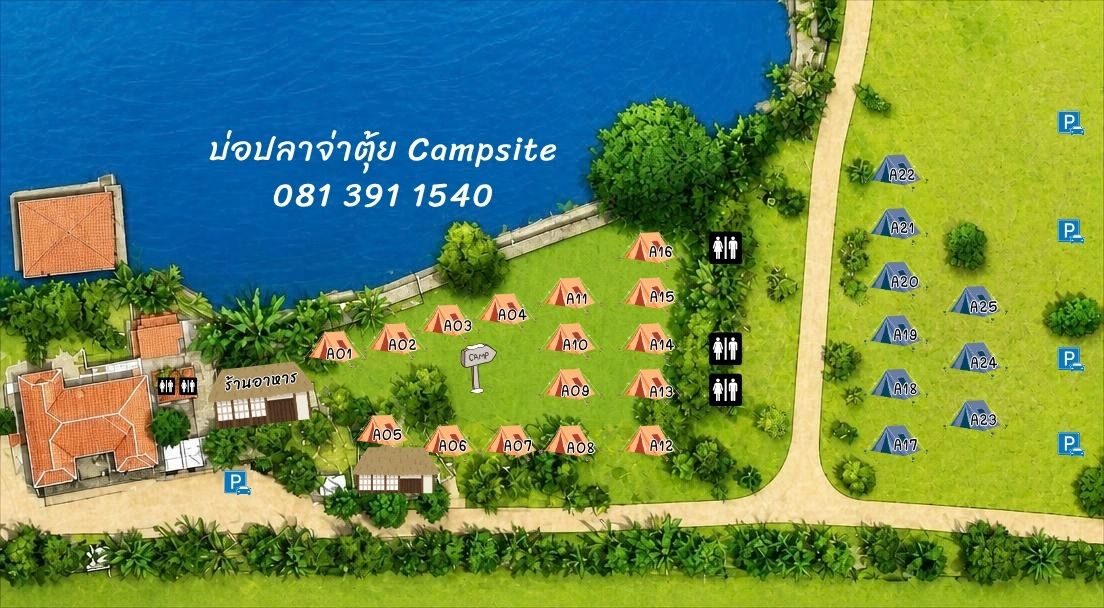
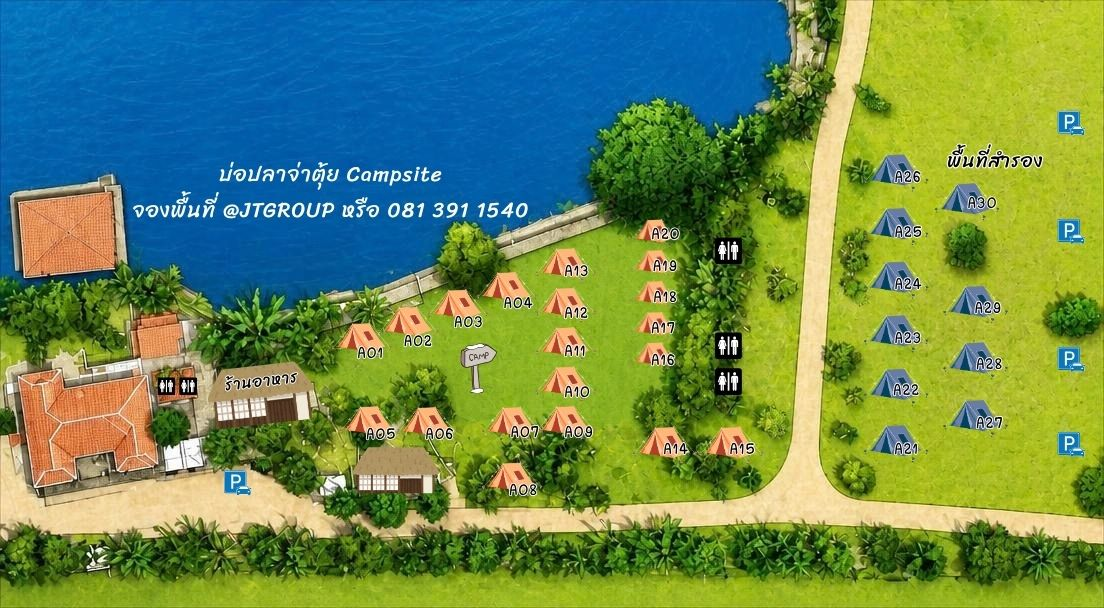
Add files via upload

diff --git a/public/liff.html b/public/liff.html
@@ -3,7 +3,7 @@
 <head>
 <meta charset="utf-8">
 <meta name="viewport" content="width=device-width, initial-scale=1">
-<title>จองพื้นที่กางเต็นท์</title>
+<title>จองที่กางเต็นท์</title>
 <script src="https://static.line-scdn.net/liff/edge/2/sdk.js"></script>
 <style>
   * { box-sizing: border-box; }
@@ -27,9 +27,12 @@
   button.go:disabled { background: #b8c4bc; }
   .mapscroll { overflow: auto; border-radius: 10px; -webkit-overflow-scrolling: touch; }
   .mapbox { position: relative; width: 100%; }
-  .mapbox.zoom { width: 230%; }
+  .mapbox.zoom { width: 330%; }
+  .mapscroll.zoomed { max-height: 70vh; }
+  .mapbox:not(.zoom) .pin { pointer-events: none; }
+  .mapbox:not(.zoom) { cursor: zoom-in; }
   .mapbox img { width: 100%; display: block; }
-  .pin { position: absolute; width: 7%; aspect-ratio: 1; transform: translate(-50%, -50%); border-radius: 50%; border: 0; padding: 0; background: transparent; display: none; }
+  .pin { position: absolute; width: 2.6%; aspect-ratio: 1; transform: translate(-50%, -50%); border-radius: 50%; border: 0; padding: 0; background: transparent; display: none; }
   .pin.free { display: block; background: rgba(6,199,85,.30); border: 2px solid #06c755; }
   .pin.off { display: block; background: rgba(80,80,80,.62); border: 2px solid #aaa; pointer-events: none; }
   .pin.sel { background: rgba(6,199,85,.85); border: 3px solid #fff; box-shadow: 0 0 0 2px #06c755; }
@@ -47,13 +50,13 @@
 </head>
 <body>
 <div class="wrap">
-  <h1>⛺ จองพื้นที่กางเต็นท์</h1>
+  <h1>⛺ จองที่กางเต็นท์</h1>
 
   <div id="form">
     <div class="card">
       <div class="row">
-        <div><label>วันเข้าพัก(เฉพาะงานแฝด 14พย69)</label><input type="date" id="in"></div>
-        <div><label>วันออก(ระบุ15พย69)</label><input type="date" id="out"></div>
+        <div><label>วันเข้าพัก</label><input type="date" id="in"></div>
+        <div><label>วันออก</label><input type="date" id="out"></div>
       </div>
       <label>จำนวนคน (สูงสุด 4)</label>
       <select id="guests">
@@ -64,12 +67,12 @@
 
     <div class="card mapcard">
       <label>แผนผังจุดกางเต็นท์</label>
-      <div class="mapscroll"><div class="mapbox" id="mapbox">
+      <div class="mapscroll" id="mapscroll"><div class="mapbox" id="mapbox">
         <img id="mapimg" src="map.jpg" alt="แผนผังจุดกางเต็นท์"
              onerror="if(!this.dataset.t){this.dataset.t=1;this.src='map.png'}else{this.closest('.card').style.display='none'}">
       </div></div>
       <div class="row2">
-        <div class="hint" id="mapHint">เลือกวันที่ก่อน แล้ว <b style="color:#06c755">วงกลมเขียว</b> = ว่าง แตะเพื่อเลือก (สีเทา = ไม่ว่าง)</div>
+        <div class="hint" id="mapHint">เลือกวันที่ก่อน แล้วแตะแผนผังเพื่อขยาย <b style="color:#06c755">วงกลมเขียว</b> = ว่าง แตะเพื่อเลือก (สีเทา = ไม่ว่าง) หรือเลือกจากรายการด้านล่างก็ได้</div>
         <button type="button" class="zoomBtn" id="zoomBtn">ขยาย</button>
       </div>
     </div>
@@ -80,7 +83,7 @@
     </div>
 
     <div class="card">
-      <label>ชื่อ-สกุล ผู้จอง</label><input id="name" autocomplete="name">
+      <label>ชื่อผู้จอง</label><input id="name" autocomplete="name">
       <label>เบอร์โทร</label><input id="phone" type="tel" inputmode="tel" autocomplete="tel">
       <label>ที่อยู่</label><textarea id="address" autocomplete="street-address"></textarea>
     </div>
@@ -91,28 +94,15 @@
     </div>
 
     <div class="card terms">
-      <h2>เงื่อนไขการจองและกฏระเบียบ</h2>
+      <h2>เงื่อนไขการจอง</h2>
       <!-- แก้ข้อความในรายการด้านล่างนี้ได้เลย (เพิ่ม/ลบ <li> ได้) -->
       <ul>
-        <li>ราคา 500 บาท/จุด/คืน รวมผู้พัก 2 คน หากเข้าพักเกิน/จุด เพิ่มคนละ 200 บาท/คืน (สูงสุด 4 คนต่อจุด)</li>
-       <li>ขนาดพื้นที่แต่ละจุด ประมาณ 15 ตารางเมตรสำหรับกางเต็นท์ </li>
-       <li>ผู้จองต้องนำเต็นท์ และอุปกรณ์แคมป์ปิ้งมาเองทั้งหมด เราให้เช่าเพียงพื้นที่กางเต็นท์เท่านั้น</li>
-        <li>กรุณาชำระเงินและส่งสลิปภายใน 20 นาทีหลังกดจอง มิฉะนั้นระบบจะปล่อยจุดคืนอัตโนมัติ</li>
+        <li>ราคา 500 บาท/จุด/คืน รวมผู้พัก 2 คน เพิ่มคนละ 200 บาท/คืน (สูงสุด 4 คนต่อจุด)</li>
+        <li>เวลาเข้าพัก [ใส่เวลา] และเวลาออก [ใส่เวลา]</li>
+        <li>กรุณาชำระเงินและส่งสลิปภายใน 20 นาทีหลังจอง มิฉะนั้นระบบจะปล่อยจุดคืนอัตโนมัติ</li>
         <li>การจองจะสมบูรณ์เมื่อแอดมินตรวจสอบและยืนยันแล้ว</li>
-        <li><b>การยกเลิกและคืนเงิน: หากทำการยืนยันการจองแล้ว ทางลานขอสงวนสิทธิ์ในการคืนเงินทุกกรณี</b></li>
-<li>เข้า Check in ได้ 13.00 น. Check out 12.00 น.</li>
-<li>ไม่อนุญาตให้ใช้แอร์เคลื่อนที่ เตาไฟฟ้า และเครื่องใช้ไฟฟ้ากำลังวัตต์สูงทุกชนิด </li>
-<li>งดใช้เสียงทุกประเภท ตั้งแต่ 22.00 - 07.00 น. </li>
-<li>ห้ามเปิดเครื่องเสียงติดรถยนต์ ทุกกรณี</li>
-<li>ไม่หัก หรือทำลาย ทรัพย์สินของทางลาน เช่นห้ามตัดต้นไม้ ดอกไม้ หรือสิ่งของภายในลาน</li>
-<li>ห้ามก่อไฟบนสนามหญ้าโดยเด็ดขาด ฝ่าฝืนปรับ 2000 บาท </li>
-<li>ห้ามทิ้งขยะทุกชนิดภายในบริเวณลาน ต้องนำไปทิ้งที่ถุงดำหรือบริเวณที่ทางลานจัดให้ทิ้งเท่านั้น</li>
-<li>ทรัพย์สิน หรือของมีค่าทุกชนิด ผู้เข้าแคมป์ต้องเก็บรักษาให้มิดชิด หากสูญหายจะไม่อยู่ในความรับผิดชอบของทางลานทุกกรณี</li>
-<li>ห้ามนำบุคคลภายนอก ที่ไม่ได้แจ้งเข้าพัก เข้ามาภายในลานก่อนได้รับอนุญาตโดยเด็ดขาด</li>
-<li>หากมีบุคคลภายนอกที่ต้องการเข้ามาชั่วคราว โดยต้องออกจากลานก่อนเวลา 18:00 น. มีค่าเข้าคนละ 100บาท</li>
-        <li>ห้ามนำสิ่งของผิดกฎหมายเข้ามาภายในบริเวณลาน เช่น อาวุธปืน ยาเสพติด อื่นๆที่ผิดกฎหมาย หากพบเห็นทางลานขอใช้สิทธิ์ในการแจ้งเจ้าหน้าที่ตำรวจเข้ามาดูแลความปลอดภัย</li>
-<li>ทั้งนี้กฏระเบียบขอบังคับทุกข้อ เพื่อความสุข ความสบายใจ และความปลอดภัยของผู้ร่วมพักอาศัยภายในลาน หวังเป็นอย่างยิ่งว่าทุกท่านจะ
-ให้ความร่วมมือปฏิบัติตามกฏระเบียบข้อบังคับของทางลาน ขอขอบพระคุณค่ะ</li>
+        <li>การยกเลิกและคืนเงิน: [ใส่นโยบายของคุณ]</li>
+        <li>[เงื่อนไขอื่น ๆ เช่น กฎของสถานที่ สัตว์เลี้ยง เสียงดัง]</li>
       </ul>
       <label class="agree"><input type="checkbox" id="agree"><span>ข้าพเจ้าได้อ่านและยอมรับเงื่อนไขการจองข้างต้น</span></label>
     </div>
@@ -126,7 +116,8 @@
     <div id="summary" class="hint"></div>
     <p><b id="amount"></b></p>
     <img id="qr" alt="QR ชำระเงิน">
-    <p class="hint">สแกนจ่ายผ่านแอปธนาคาร แล้วส่งรูปสลิปในแชต LINE<br>ภายใน <span id="hold"></span> นาที มิฉะนั้นระบบจะปล่อยจุดคืน</p>
+    <p class="hint">สแกนจ่ายผ่านแอปธนาคาร แล้วส่งรูปสลิปในแชต LINE OA<br>ภายใน <span id="hold"></span> นาที มิฉะนั้นระบบจะปล่อยจุดคืน</p>
+    <p class="hint" id="contact"></p>
     <button class="go" id="close">กลับไปที่แชต</button>
   </div>
 </div>
@@ -148,11 +139,12 @@ function price() {
 // ตำแหน่งจุดบนรูป map.jpg (พิกเซลของรูปขนาด 1104x608)
 const MAP_W = 1104, MAP_H = 608;
 const PINS = {
-  A01:[335,347],A02:[396,342],A03:[448,322],A04:[507,310],A05:[383,431],
-  A06:[448,442],A07:[512,442],A08:[572,442],A09:[572,384],A10:[572,341],
-  A11:[570,294],A12:[650,441],A13:[653,388],A14:[653,341],A15:[652,294],
-  A16:[652,247],A17:[897,439],A18:[897,385],A19:[897,330],A20:[898,278],
-  A21:[898,224],A22:[896,171],A23:[976,416],A24:[976,360],A25:[976,303],
+  A01:[361,338],A02:[409,324],A03:[456,306],A04:[508,289],A05:[370,421],
+  A06:[426,422],A07:[512,422],A08:[511,478],A09:[565,422],A10:[566,381],
+  A11:[563,342],A12:[562,302],A13:[563,262],A14:[662,440],A15:[728,440],
+  A16:[655,354],A17:[655,324],A18:[654,293],A19:[654,263],A20:[653,231],
+  A21:[886,439],A22:[887,383],A23:[887,329],A24:[888,275],A25:[888,222],
+  A26:[888,169],A27:[969,414],A28:[969,358],A29:[969,301],A30:[965,196],
 };
 const pinEls = {};
 let nameToId = {};
@@ -184,6 +176,23 @@ function choose(id) {
     if (nameToId[name]) p.className = 'pin ' + (nameToId[name] === id ? 'free sel' : 'free');
   });
   validate();
+}
+
+function fillContact() {
+  const c = cfg.contact || {};
+  const el = $('contact');
+  el.textContent = 'ติดต่อสอบถาม: ';
+  if (c.phone) {
+    const a = document.createElement('a');
+    a.href = 'tel:' + c.phone.replace(/\s/g, ''); a.textContent = c.phone;
+    el.appendChild(a);
+  }
+  if (c.line) {
+    el.append(' | LINE ');
+    const a = document.createElement('a');
+    a.href = 'https://line.me/R/ti/p/' + encodeURIComponent(c.line); a.textContent = c.line;
+    el.appendChild(a);
+  }
 }
 
 function refreshPrice() {
@@ -264,14 +273,27 @@ async function submit() {
   if (!liff.isLoggedIn()) { liff.login(); return; }
   accessToken = liff.getAccessToken();
   $('in').min = cfg.today;
+  fillContact();
   ['in', 'out'].forEach((id) => $(id).addEventListener('change', onDates));
   $('guests').addEventListener('change', refreshPrice);
   ['name', 'phone', 'address'].forEach((id) => $(id).addEventListener('input', validate));
   $('agree').addEventListener('change', validate);
   createPins();
-  $('zoomBtn').addEventListener('click', () => {
-    const z = $('mapbox').classList.toggle('zoom');
-    $('zoomBtn').textContent = z ? 'ย่อ' : 'ขยาย';
+  const setZoom = (on, fx = 0.5, fy = 0.5) => {
+    $('mapbox').classList.toggle('zoom', on);
+    $('mapscroll').classList.toggle('zoomed', on);
+    $('zoomBtn').textContent = on ? 'ย่อ' : 'ขยาย';
+    if (on) {
+      const sc = $('mapscroll');
+      sc.scrollLeft = fx * sc.scrollWidth - sc.clientWidth / 2;
+      sc.scrollTop = fy * sc.scrollHeight - sc.clientHeight / 2;
+    }
+  };
+  $('zoomBtn').addEventListener('click', () => setZoom(!$('mapbox').classList.contains('zoom')));
+  $('mapbox').addEventListener('click', (e) => {
+    if ($('mapbox').classList.contains('zoom')) return;
+    const r = $('mapbox').getBoundingClientRect();
+    setZoom(true, (e.clientX - r.left) / r.width, (e.clientY - r.top) / r.height);
   });
   $('submit').addEventListener('click', submit);
   $('close').addEventListener('click', () => liff.closeWindow());

diff --git a/public/web.html b/public/web.html
@@ -26,14 +26,19 @@
   button.go:disabled { background: #b8c4bc; }
   .mapscroll { overflow: auto; border-radius: 10px; -webkit-overflow-scrolling: touch; }
   .mapbox { position: relative; width: 100%; }
-  .mapbox.zoom { width: 230%; }
+  .mapbox.zoom { width: 330%; }
+  .mapscroll.zoomed { max-height: 70vh; }
+  .mapbox:not(.zoom) .pin { pointer-events: none; }
+  .mapbox:not(.zoom) { cursor: zoom-in; }
   .mapbox img { width: 100%; display: block; }
-  .pin { position: absolute; width: 7%; aspect-ratio: 1; transform: translate(-50%, -50%); border-radius: 50%; border: 0; padding: 0; background: transparent; display: none; }
+  .pin { position: absolute; width: 2.6%; aspect-ratio: 1; transform: translate(-50%, -50%); border-radius: 50%; border: 0; padding: 0; background: transparent; display: none; }
   .pin.free { display: block; background: rgba(6,199,85,.30); border: 2px solid #06c755; }
   .pin.off { display: block; background: rgba(80,80,80,.62); border: 2px solid #aaa; pointer-events: none; }
   .pin.sel { background: rgba(6,199,85,.85); border: 3px solid #fff; box-shadow: 0 0 0 2px #06c755; }
   .mapcard .row2 { display: flex; justify-content: space-between; align-items: center; margin-top: 8px; gap: 8px; }
   .mapcard .zoomBtn { border: 1px solid var(--line); background: var(--card); color: var(--fg); border-radius: 16px; padding: 6px 12px; font-size: 13px; }
+  .codebox { border: 2px dashed #1f7a4d; border-radius: 12px; padding: 12px; margin: 10px 0; }
+  .codebox .code { font-size: 34px; letter-spacing: 5px; font-weight: 700; color: #1f7a4d; margin: 4px 0; }
   .terms { font-size: 14px; line-height: 1.6; }
   .terms h2 { font-size: 15px; margin: 0 0 6px; }
   .terms ul { margin: 0; padding-left: 20px; }
@@ -63,12 +68,12 @@
 
     <div class="card mapcard">
       <label>แผนผังจุดกางเต็นท์</label>
-      <div class="mapscroll"><div class="mapbox" id="mapbox">
+      <div class="mapscroll" id="mapscroll"><div class="mapbox" id="mapbox">
         <img id="mapimg" src="map.jpg" alt="แผนผังจุดกางเต็นท์"
              onerror="if(!this.dataset.t){this.dataset.t=1;this.src='map.png'}else{this.closest('.card').style.display='none'}">
       </div></div>
       <div class="row2">
-        <div class="hint" id="mapHint">เลือกวันที่ก่อน แล้ว <b style="color:#06c755">วงกลมเขียว</b> = ว่าง แตะเพื่อเลือก (สีเทา = ไม่ว่าง)</div>
+        <div class="hint" id="mapHint">เลือกวันที่ก่อน แล้วแตะแผนผังเพื่อขยาย <b style="color:#06c755">วงกลมเขียว</b> = ว่าง แตะเพื่อเลือก (สีเทา = ไม่ว่าง) หรือเลือกจากรายการด้านล่างก็ได้</div>
         <button type="button" class="zoomBtn" id="zoomBtn">ขยาย</button>
       </div>
     </div>
@@ -111,6 +116,11 @@
     <div class="ok" id="statusText"></div>
     <div id="summary" class="hint"></div>
     <p><b id="amount"></b></p>
+    <div id="codeBox" class="codebox" style="display:none">
+      <div class="hint">รหัสจองของคุณ</div>
+      <div class="code" id="codeText"></div>
+      <div class="hint">กรุณาแจ้งรหัสนี้กับเจ้าหน้าที่ในวันเข้าพัก พร้อมเบอร์โทรที่ใช้จอง (แคปหน้าจอไว้ได้)</div>
+    </div>
     <div id="payBox">
       <img id="qr" alt="QR ชำระเงิน">
       <p class="hint">สแกนจ่ายผ่านแอปธนาคาร แล้วอัปโหลดรูปสลิปด้านล่าง<br>ภายใน <span id="hold"></span> นาที มิฉะนั้นระบบจะปล่อยจุดคืน</p>
@@ -119,6 +129,7 @@
       <div class="err" id="slipMsg"></div>
     </div>
     <p class="hint">เก็บลิงก์ในแถบที่อยู่ของหน้านี้ไว้ หรือแคปหน้าจอ เพื่อกลับมาดูสถานะการจองได้</p>
+    <p class="hint" id="contact"></p>
     <button class="go" id="again" style="background:#8a978f">จองใหม่</button>
   </div>
 </div>
@@ -140,11 +151,12 @@ function price() {
 // ตำแหน่งจุดบนรูป map.jpg (พิกเซลของรูปขนาด 1104x608)
 const MAP_W = 1104, MAP_H = 608;
 const PINS = {
-  A01:[335,347],A02:[396,342],A03:[448,322],A04:[507,310],A05:[383,431],
-  A06:[448,442],A07:[512,442],A08:[572,442],A09:[572,384],A10:[572,341],
-  A11:[570,294],A12:[650,441],A13:[653,388],A14:[653,341],A15:[652,294],
-  A16:[652,247],A17:[897,439],A18:[897,385],A19:[897,330],A20:[898,278],
-  A21:[898,224],A22:[896,171],A23:[976,416],A24:[976,360],A25:[976,303],
+  A01:[361,338],A02:[409,324],A03:[456,306],A04:[508,289],A05:[370,421],
+  A06:[426,422],A07:[512,422],A08:[511,478],A09:[565,422],A10:[566,381],
+  A11:[563,342],A12:[562,302],A13:[563,262],A14:[662,440],A15:[728,440],
+  A16:[655,354],A17:[655,324],A18:[654,293],A19:[654,263],A20:[653,231],
+  A21:[886,439],A22:[887,383],A23:[887,329],A24:[888,275],A25:[888,222],
+  A26:[888,169],A27:[969,414],A28:[969,358],A29:[969,301],A30:[965,196],
 };
 const pinEls = {};
 let nameToId = {};
@@ -176,6 +188,23 @@ function choose(id) {
     if (nameToId[name]) p.className = 'pin ' + (nameToId[name] === id ? 'free sel' : 'free');
   });
   validate();
+}
+
+function fillContact() {
+  const c = cfg.contact || {};
+  const el = $('contact');
+  el.textContent = 'ติดต่อสอบถาม: ';
+  if (c.phone) {
+    const a = document.createElement('a');
+    a.href = 'tel:' + c.phone.replace(/\s/g, ''); a.textContent = c.phone;
+    el.appendChild(a);
+  }
+  if (c.line) {
+    el.append(' | LINE ');
+    const a = document.createElement('a');
+    a.href = 'https://line.me/R/ti/p/' + encodeURIComponent(c.line); a.textContent = c.line;
+    el.appendChild(a);
+  }
 }
 
 function refreshPrice() {
@@ -255,6 +284,9 @@ function showBooking(d) {
   $('hold').textContent = d.hold_minutes;
   const status = d.status || 'pending_payment';
   $('statusText').textContent = STATUS_TH[status] || status;
+  const showCode = status === 'confirmed' && d.booking.code;
+  $('codeBox').style.display = showCode ? 'block' : 'none';
+  if (showCode) $('codeText').textContent = d.booking.code;
   const pending = status === 'pending_payment';
   $('payBox').style.display = pending ? 'block' : 'none';
   if (pending && d.qr) $('qr').src = d.qr;
@@ -321,14 +353,27 @@ async function sendSlip() {
 (async () => {
   cfg = await (await fetch('/api/config')).json();
   $('in').min = cfg.today;
+  fillContact();
   ['in', 'out'].forEach((id) => $(id).addEventListener('change', onDates));
   $('guests').addEventListener('change', refreshPrice);
   ['name', 'phone', 'address'].forEach((id) => $(id).addEventListener('input', validate));
   $('agree').addEventListener('change', validate);
   createPins();
-  $('zoomBtn').addEventListener('click', () => {
-    const z = $('mapbox').classList.toggle('zoom');
-    $('zoomBtn').textContent = z ? 'ย่อ' : 'ขยาย';
+  const setZoom = (on, fx = 0.5, fy = 0.5) => {
+    $('mapbox').classList.toggle('zoom', on);
+    $('mapscroll').classList.toggle('zoomed', on);
+    $('zoomBtn').textContent = on ? 'ย่อ' : 'ขยาย';
+    if (on) {
+      const sc = $('mapscroll');
+      sc.scrollLeft = fx * sc.scrollWidth - sc.clientWidth / 2;
+      sc.scrollTop = fy * sc.scrollHeight - sc.clientHeight / 2;
+    }
+  };
+  $('zoomBtn').addEventListener('click', () => setZoom(!$('mapbox').classList.contains('zoom')));
+  $('mapbox').addEventListener('click', (e) => {
+    if ($('mapbox').classList.contains('zoom')) return;
+    const r = $('mapbox').getBoundingClientRect();
+    setZoom(true, (e.clientX - r.left) / r.width, (e.clientY - r.top) / r.height);
   });
   $('submit').addEventListener('click', submit);
   $('again').addEventListener('click', () => { location.href = location.pathname; });
